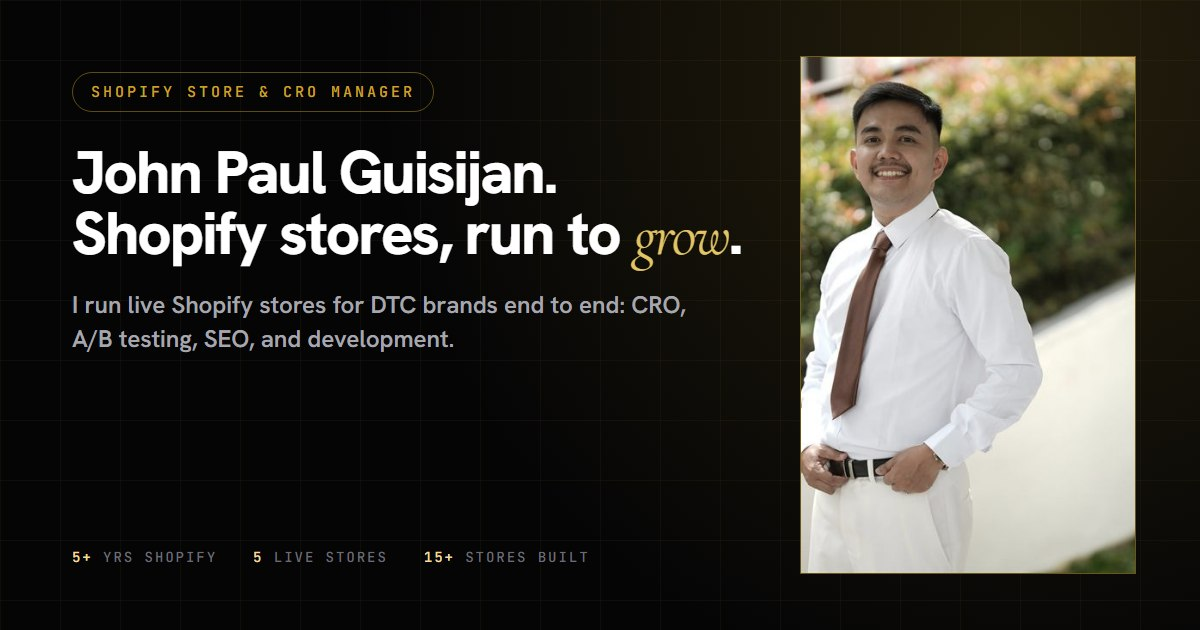
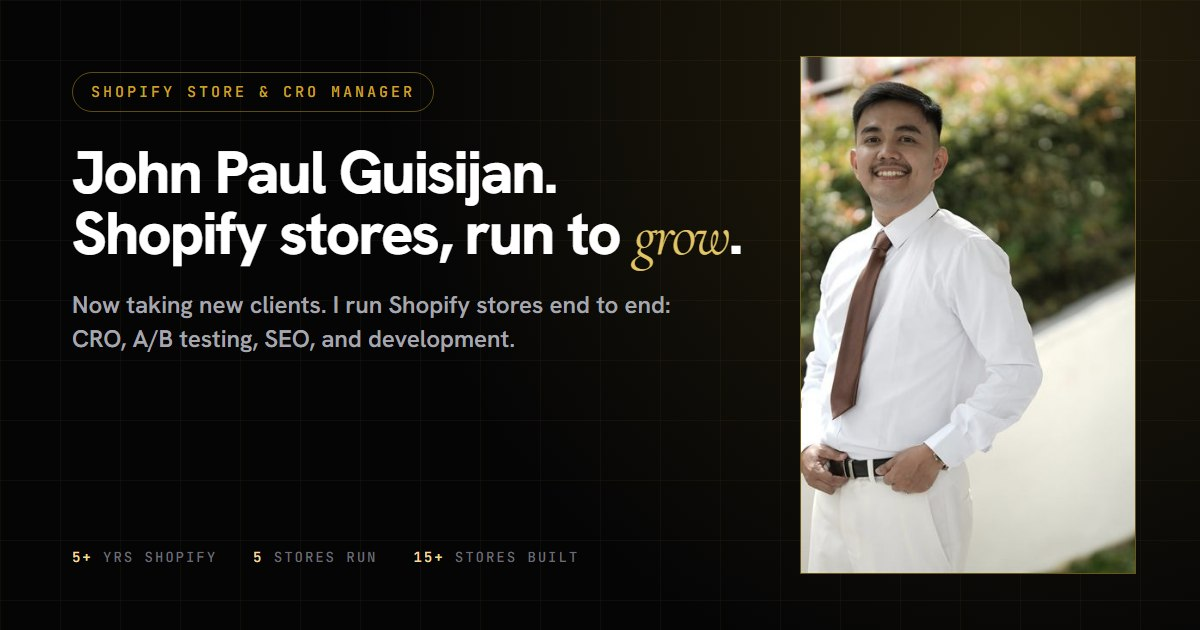
Reframe portfolio as available for new clients
- Hero badge: Available for new Shopify clients
- Managed stores section and about copy moved to past tense (stores I've run)
- Open-seat card books a call via Calendly
- Social preview image updated

Changed region(s): [[0.0617, 0.4524, 0.5858, 0.573], [0.2467, 0.8746, 0.4933, 0.9048]]

diff --git a/index.html b/index.html
@@ -36,7 +36,7 @@
   "@type": "Person",
   "name": "John Paul Guisijan",
   "jobTitle": "Shopify Store & CRO Manager",
-  "description": "Shopify store and CRO manager running live DTC stores end to end: CRO, A/B testing, SEO, and theme development.",
+  "description": "Shopify store and CRO manager who runs DTC stores end to end: CRO, A/B testing, SEO, and theme development.",
   "url": "https://johnpaulguisijan-png.github.io/",
   "image": "https://johnpaulguisijan-png.github.io/johnpaul.jpg",
   "email": "mailto:johnpaulguisijan@gmail.com",
@@ -61,7 +61,7 @@
   ---------------------------------------------------------------------------
   1. VIDEO PREVIEWS — all 13 cards have recordings (added 2026-10-14). Every card plays a screen recording on hover if one
      exists. Drop .mp4 files at the repo ROOT using the same base name as the
-     screenshot. Stores I manage (5): chuggo, zuumees, monavie, healthypetz, lashbabe.
+     screenshot. Stores I've run (5): chuggo, zuumees, monavie, healthypetz, lashbabe.
      Featured (3): babydelight, omadagolf, stencilstop.
      More work grid: joovy, zenbodi, electrogum, phantomfarms (brewing),
      phantomfarms-com (farm/bakery).
@@ -475,7 +475,7 @@ section{position:relative;z-index:1;padding-block:var(--section)}
 @media(max-width:1100px){#more .grid-tiles{grid-template-columns:repeat(3,1fr)}}
 @media(max-width:760px){#more .grid-tiles{grid-template-columns:repeat(2,1fr)}}
 @media(max-width:480px){#more .grid-tiles{grid-template-columns:repeat(1,1fr)}}
-/* ---- Stores I manage ---- */
+/* ---- Stores I've run ---- */
 .own{display:grid;grid-template-columns:repeat(6,1fr);gap:1px;background:var(--line);border:1px solid var(--line);margin-bottom:clamp(40px,5vw,64px)}
 .own__i{background:var(--bg);padding:18px 16px;display:flex;flex-direction:column;gap:6px}
 .own__i b{font-family:var(--f-mono);font-size:10px;font-weight:500;letter-spacing:.16em;color:var(--gold)}
@@ -765,7 +765,7 @@ section{position:relative;z-index:1;padding-block:var(--section)}
       <div class="hero__copy">
         <div class="pill rv">
           <span class="pill__dot"></span>
-          <span class="eyebrow">Currently running 5 live Shopify stores</span>
+          <span class="eyebrow">Available for new Shopify clients</span>
         </div>
 
         <h1 class="display rv">
@@ -784,7 +784,7 @@ section{position:relative;z-index:1;padding-block:var(--section)}
             Book a discovery call
             <svg class="ico" viewBox="0 0 24 24" fill="none" stroke="currentColor" stroke-width="2"><path d="M5 12h14M13 6l6 6-6 6"/></svg>
           </a>
-          <a href="#work" class="btn btn--ghost">See stores I run</a>
+          <a href="#work" class="btn btn--ghost">See stores I've run</a>
         </div>
 
         <p class="hero__note rv">
@@ -840,7 +840,7 @@ section{position:relative;z-index:1;padding-block:var(--section)}
       </div>
       <div class="stat">
         <div class="stat__k"><span class="counter" data-to="5">0</span></div>
-        <div class="stat__l">Live stores I manage day to day</div>
+        <div class="stat__l">Stores I've run end to end</div>
       </div>
       <div class="stat">
         <div class="stat__k"><span class="counter" data-to="15">0</span>+</div>
@@ -858,10 +858,10 @@ section{position:relative;z-index:1;padding-block:var(--section)}
 <section id="work" class="band">
   <div class="wrap">
     <div class="sect-head rv">
-      <span class="eyebrow">Stores I manage</span>
-      <h2 class="sect">Live stores I <span class="serif gold-text">run</span>, not just build.</h2>
-      <p class="lead">These are live US-facing DTC stores I'm responsible for day to day, not one-off projects. Together these brands serve
-        more than 650,000 customers, and I own each storefront end to end, from the code to the conversion rate.</p>
+      <span class="eyebrow">Stores I've run</span>
+      <h2 class="sect">Stores I've <span class="serif gold-text">run</span>, not just built.</h2>
+      <p class="lead">Live DTC stores I've run day to day, not one-off projects. Together these brands serve more than
+        650,000 customers, and I owned each storefront end to end, from the code to the conversion rate. Yours could be next.</p>
     </div>
 
     <div class="own rv">
@@ -884,11 +884,11 @@ section{position:relative;z-index:1;padding-block:var(--section)}
               <img src="monavie.jpg" alt="MonaVie storefront" loading="lazy" decoding="async" onerror="if(this.src.endsWith(String.fromCharCode(46)+'jpg')){this.src=this.src.slice(0,-3)+'png'}else{this.remove()}">
             </div>
             <div class="frame__scrim"></div>
-            <div class="frame__badge"><span class="pulse"></span> Managing</div>
+            <div class="frame__badge"><span class="pulse"></span> Live store</div>
           </div>
           <div class="tile__meta"><span class="tile__name">MonaVie</span><span class="tile__type">Shopify · US</span></div>
           <div class="tile__stats"><div><b>4.9&#9733;</b><span>Customer rating</span></div><div><b>2005</b><span>Brand since</span></div></div>
-          <p>Açaí wellness shots &amp; bottles sold direct. A subscription-first store: subscribe-and-save offers, tiered bundle pricing, and a funnel I test continuously.</p>
+          <p>Açaí wellness shots &amp; bottles sold direct. A subscription-first store: subscribe-and-save offers, tiered bundle pricing, and a funnel I tested continuously.</p>
           <div class="stack"><span class="chip">Subscriptions</span><span class="chip">A/B tests</span><span class="chip">CRO</span><span class="chip">SEO</span></div>
         </a>
       </article>
@@ -902,11 +902,11 @@ section{position:relative;z-index:1;padding-block:var(--section)}
               <img src="chuggo.jpg" alt="ChugGo storefront" loading="lazy" decoding="async" onerror="if(this.src.endsWith(String.fromCharCode(46)+'jpg')){this.src=this.src.slice(0,-3)+'png'}else{this.remove()}">
             </div>
             <div class="frame__scrim"></div>
-            <div class="frame__badge"><span class="pulse"></span> Managing</div>
+            <div class="frame__badge"><span class="pulse"></span> Live store</div>
           </div>
           <div class="tile__meta"><span class="tile__name">ChugGo</span><span class="tile__type">Shopify · US</span></div>
           <div class="tile__stats"><div><b>4.9&#9733;</b><span>Customer rating</span></div><div><b>2,400+</b><span>Reviews</span></div></div>
-          <p>An insulated 3-in-1 can &amp; bottle holder. I took over the live store at launch and run its CRO tests, offers, and seasonal promotions.</p>
+          <p>An insulated 3-in-1 can &amp; bottle holder. I took over the live store at launch and ran its CRO tests, offers, and seasonal promotions.</p>
           <div class="stack"><span class="chip">A/B tests</span><span class="chip">Promotions</span><span class="chip">CRO</span><span class="chip">SEO</span></div>
         </a>
       </article>
@@ -920,11 +920,11 @@ section{position:relative;z-index:1;padding-block:var(--section)}
               <img src="zuumees.jpg" alt="Zuumees kids sneakers storefront" loading="lazy" decoding="async" onerror="if(this.src.endsWith(String.fromCharCode(46)+'jpg')){this.src=this.src.slice(0,-3)+'png'}else{this.remove()}">
             </div>
             <div class="frame__scrim"></div>
-            <div class="frame__badge"><span class="pulse"></span> Managing</div>
+            <div class="frame__badge"><span class="pulse"></span> Live store</div>
           </div>
           <div class="tile__meta"><span class="tile__name">Zuumees</span><span class="tile__type">Shopify · Kids</span></div>
           <div class="tile__stats"><div><b>12,400+</b><span>Parents served</span></div><div><b>4.9&#9733;</b><span>Customer rating</span></div></div>
-          <p>Slip-on knit sneakers for kids. On this single-hero-product store I own product-page testing, offers, and sale campaigns.</p>
+          <p>Slip-on knit sneakers for kids. On this single-hero-product store I owned product-page testing, offers, and sale campaigns.</p>
           <div class="stack"><span class="chip">Product page</span><span class="chip">A/B tests</span><span class="chip">Promotions</span><span class="chip">SEO</span></div>
         </a>
       </article>
@@ -938,11 +938,11 @@ section{position:relative;z-index:1;padding-block:var(--section)}
               <img src="healthypetz.jpg" alt="Healthy Petz storefront" loading="lazy" decoding="async" onerror="if(this.src.endsWith(String.fromCharCode(46)+'jpg')){this.src=this.src.slice(0,-3)+'png'}else{this.remove()}">
             </div>
             <div class="frame__scrim"></div>
-            <div class="frame__badge"><span class="pulse"></span> Managing</div>
+            <div class="frame__badge"><span class="pulse"></span> Live store</div>
           </div>
           <div class="tile__meta"><span class="tile__name">Healthy Petz</span><span class="tile__type">Shopify · Pet health</span></div>
           <div class="tile__stats"><div><b>50,000+</b><span>Pet parents</span></div><div><b>4.7&#9733;+</b><span>Customer rating</span></div></div>
-          <p>A vet-formulated liquid collagen for dogs. I run its subscription offers, bundle promos, and ongoing CRO and SEO.</p>
+          <p>A vet-formulated liquid collagen for dogs. I ran its subscription offers, bundle promos, and CRO and SEO.</p>
           <div class="stack"><span class="chip">Subscriptions</span><span class="chip">Bundles</span><span class="chip">CRO</span><span class="chip">SEO</span></div>
         </a>
       </article>
@@ -956,21 +956,21 @@ section{position:relative;z-index:1;padding-block:var(--section)}
               <img src="lashbabe.jpg" alt="Lashbabe beauty storefront" loading="lazy" decoding="async" onerror="if(this.src.endsWith(String.fromCharCode(46)+'jpg')){this.src=this.src.slice(0,-3)+'png'}else{this.remove()}">
             </div>
             <div class="frame__scrim"></div>
-            <div class="frame__badge"><span class="pulse"></span> Managing</div>
+            <div class="frame__badge"><span class="pulse"></span> Live store</div>
           </div>
           <div class="tile__meta"><span class="tile__name">Lashbabe</span><span class="tile__type">Shopify · NL · Beauty</span></div>
           <div class="tile__stats"><div><b>600,000+</b><span>Customers</span></div><div><b>7,600+</b><span>Trustpilot reviews</span></div></div>
-          <p>Lash, brow &amp; lip beauty from the Netherlands. On this large catalogue I run merchandising, kit and bundle offers, CRO, and SEO.</p>
+          <p>Lash, brow &amp; lip beauty from the Netherlands. On this large catalogue I ran merchandising, kit and bundle offers, CRO, and SEO.</p>
           <div class="stack"><span class="chip">Merchandising</span><span class="chip">Bundles</span><span class="chip">CRO</span><span class="chip">SEO</span></div>
         </a>
       </article>
 
       <article class="tile tile--cta rv">
-        <a class="tile__link" href="https://wa.me/639627294885?text=Hi%20John%20Paul%20—%20I'd%20like%20to%20talk%20about%20you%20managing%20my%20Shopify%20store." target="_blank" rel="noopener">
-          <span class="eyebrow">Open seat</span>
+        <a class="tile__link" href="https://calendly.com/johnpaulguisijan/30min" target="_blank" rel="noopener">
+          <span class="eyebrow">Now taking new clients</span>
           <h3>Your store could be next.</h3>
           <p>Need someone to own your Shopify store end to end, from the code to the conversion rate? Let's talk.</p>
-          <span class="link-gold" style="align-self:flex-start">Message me
+          <span class="link-gold" style="align-self:flex-start">Book a free call
             <svg width="13" height="13" viewBox="0 0 24 24" fill="none" stroke="currentColor" stroke-width="2"><path d="M7 17 17 7M8 7h9v9"/></svg>
           </span>
         </a>
@@ -1306,8 +1306,8 @@ section{position:relative;z-index:1;padding-block:var(--section)}
         into running the whole store.
       </p>
       <p class="lead" style="margin-bottom:20px">
-        Today I manage live stores for US DTC brands across wellness, pet health, beauty, kids, and lifestyle products.
-        I plan and ship the A/B tests, handle SEO, launch the offers and seasonal promos, and report on what actually
+        I've managed live stores for DTC brands across wellness, pet health, beauty, kids, and lifestyle products,
+        planning and shipping the A/B tests, handling SEO, launching the offers and seasonal promos, and reporting on what actually
         moved. Because I can also write the code, nothing waits in a dev queue. I treat your store as a business that
         has to make money, not a design exercise.
       </p>
